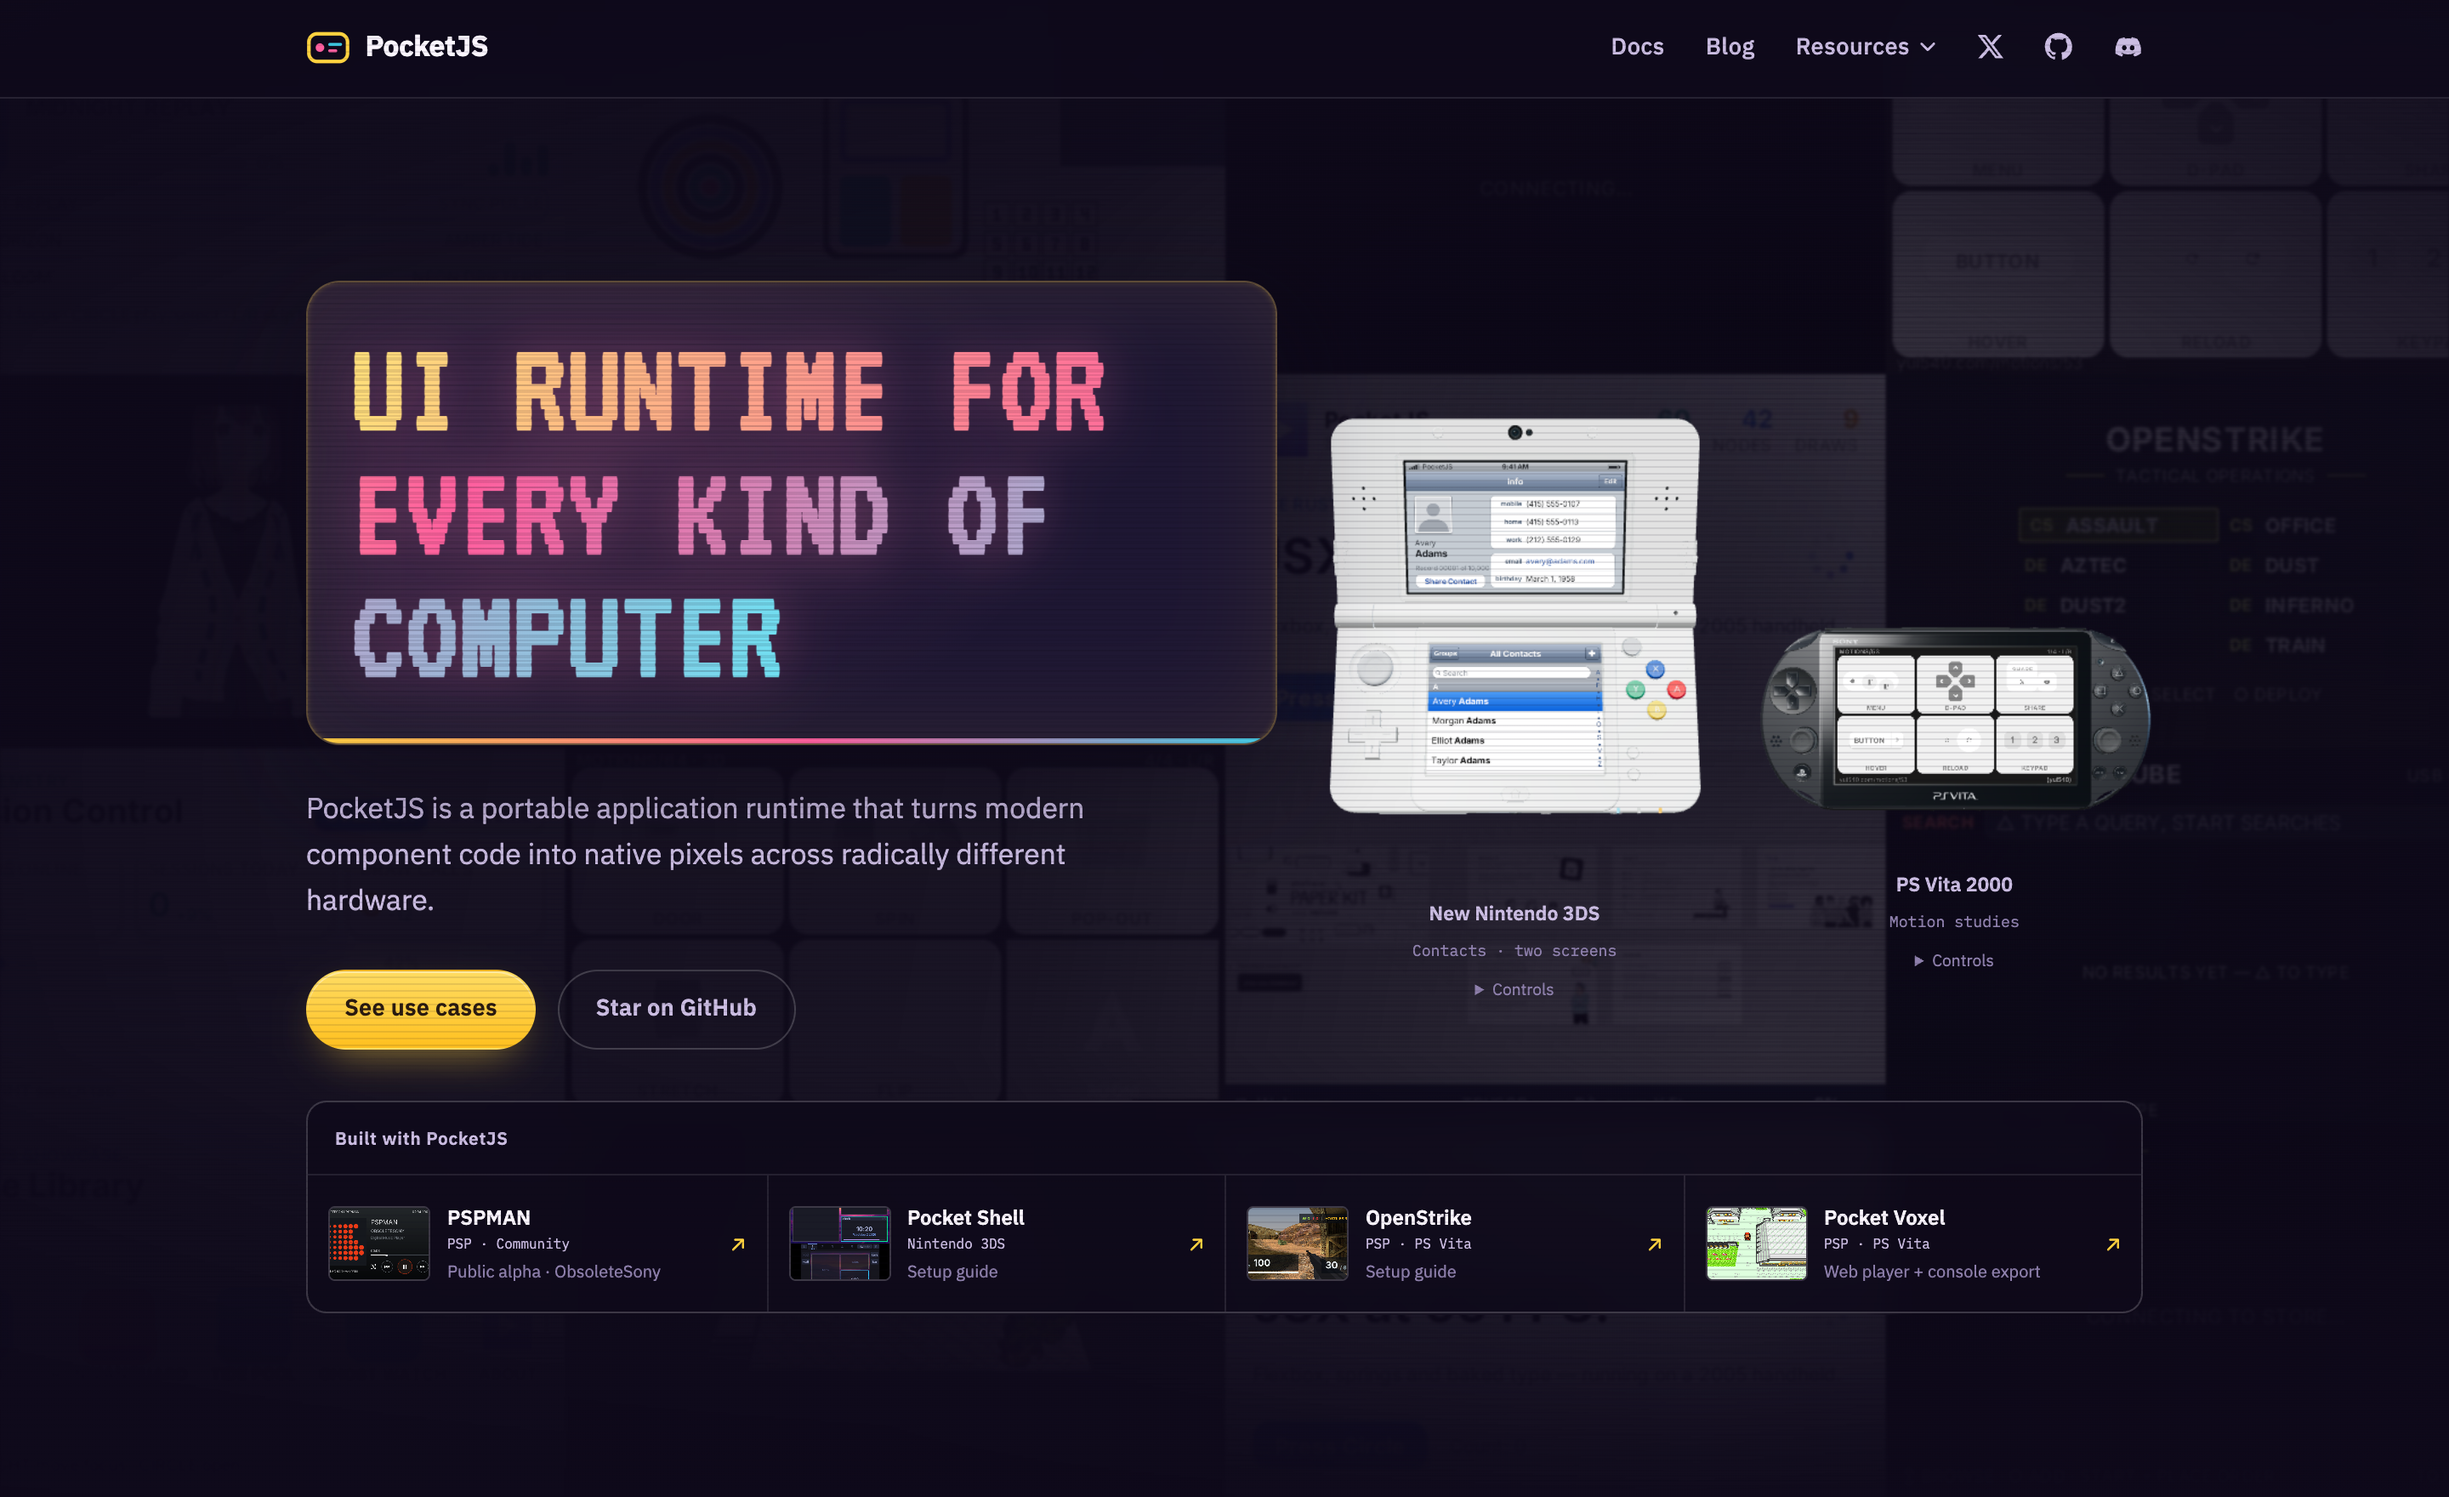
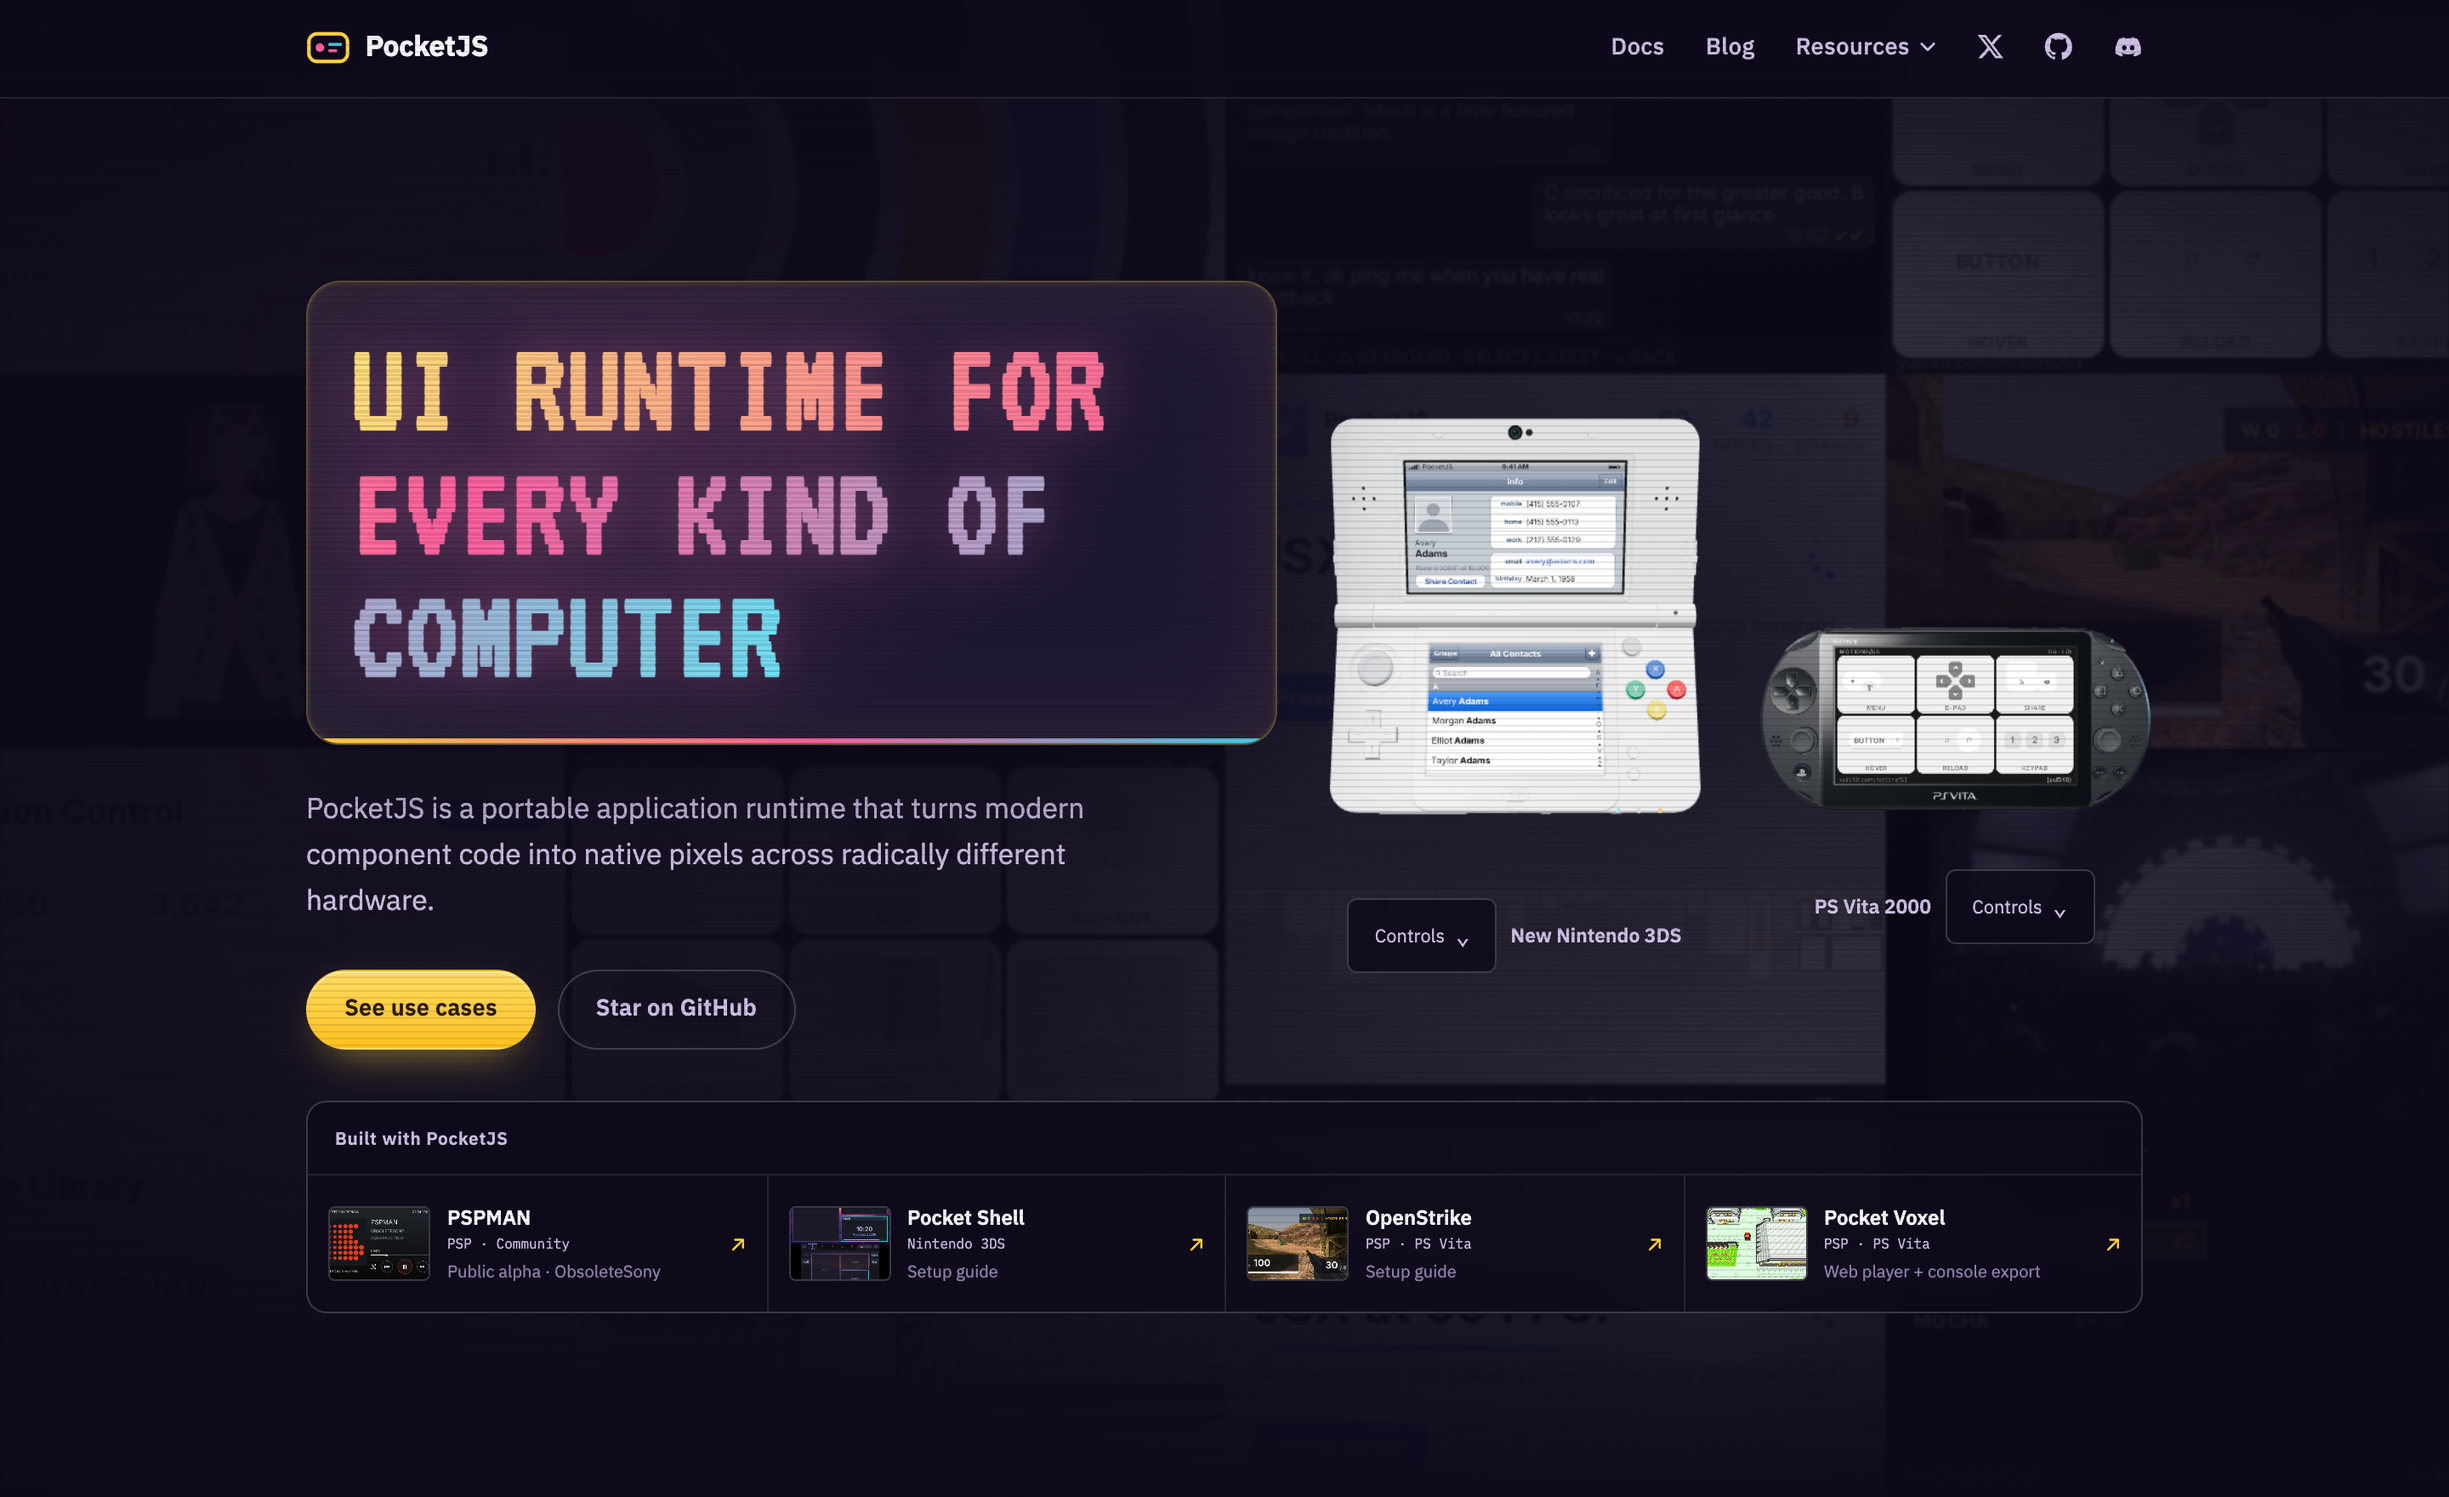
fix(site): make hero controls reachable and remove demo subtitles

diff --git a/site/assets/landing.css b/site/assets/landing.css
@@ -475,17 +475,25 @@
 .hero-handhelds::before{content:"";position:absolute;inset:-2rem;z-index:-1;background:radial-gradient(ellipse,rgba(var(--shade-rgb),.5),transparent 72%);pointer-events:none}
 .hero-handhelds .handheld-stage{position:absolute;margin:0;padding:0;border:0;background:transparent;pointer-events:none}
 .hero-handhelds .pg-stage__canvas{pointer-events:auto}
-.hero-handhelds .handheld-stage:first-child{width:66%;height:270px;left:-2%;top:-8px;z-index:1}
-.hero-handhelds .handheld-stage:last-child{width:78%;height:200px;right:-4%;bottom:0;z-index:2}
+/* The Vita's transparent canvas must not intercept the 3DS menu trigger. */
+.hero-handhelds .handheld-stage:first-child{width:66%;height:270px;left:-2%;top:-8px;z-index:2}
+.hero-handhelds .handheld-stage:last-child{width:78%;height:200px;right:-4%;bottom:0;z-index:1}
 .hero-handhelds .handheld-stage .pg-stage__viewport{height:calc(100% - 40px);overflow:visible}
-.hero-handhelds figcaption{position:absolute;left:0;right:0;bottom:0;text-align:center;line-height:1.45;pointer-events:none}
-.hero-handhelds .handheld-stage h3{font:600 .72rem/1.5 var(--sans);margin:0;color:var(--ink-2)}
-.hero-handhelds figcaption>span{font:.57rem/1.5 var(--mono);color:var(--muted)}
+.hero-handhelds figcaption{position:absolute;left:0;right:0;bottom:-4px;display:flex;align-items:center;justify-content:center;gap:.5rem;min-height:44px;text-align:center;pointer-events:none}
+.hero-handhelds .handheld-stage h3{font:600 .72rem/1.5 var(--sans);margin:0;color:var(--ink-2);min-width:0}
 .hero-handhelds .stage-hint{display:none}
-.hero-device-tools{position:absolute;left:50%;bottom:-1.45rem;transform:translateX(-50%);pointer-events:auto;font:.6rem/1.6 var(--sans);color:var(--muted)}
-.hero-device-tools summary{cursor:pointer;padding:2px 6px}
-.hero-device-tools summary:hover,.hero-device-tools summary:focus-visible{color:var(--ink);outline-color:var(--accent)}
-.hero-handhelds .handheld-controls{position:absolute;z-index:4;left:50%;bottom:1.65rem;transform:translateX(-50%);width:max-content;max-width:310px;padding:.45rem .55rem;margin:0;background:rgba(var(--shade-rgb),.98);border:1px solid var(--line);border-radius:8px}
+.hero-device-tools{pointer-events:auto;flex:none;font:.68rem/1.5 var(--sans);color:var(--ink-2)}
+/* The left side of the 3DS caption leaves the Vita shoulder accessible. */
+.hero-handhelds .handheld-stage:first-child .hero-device-tools{order:-1}
+.hero-device-tools summary{cursor:pointer;display:flex;align-items:center;justify-content:center;gap:.4rem;min-height:44px;min-width:88px;padding:0 .65rem;list-style:none;border:1px solid var(--line-2);border-radius:6px;background:rgba(var(--shade-rgb),.85)}
+.hero-device-tools summary::-webkit-details-marker{display:none}
+.hero-device-tools summary::after{content:"⌄";font-size:.85rem}
+.hero-device-tools[open] summary::after{content:"⌃"}
+.hero-device-tools summary:hover,.hero-device-tools summary:focus-visible{color:var(--ink);border-color:var(--accent);outline-color:var(--accent)}
+.hero-handhelds .handheld-controls{position:absolute;z-index:4;left:0;bottom:calc(100% + .4rem);width:max-content;max-width:310px;padding:.45rem .55rem;margin:0;background:rgba(var(--shade-rgb),.98);border:1px solid var(--line);border-radius:8px}
+.hero-handhelds .handheld-stage:last-child .handheld-controls{left:auto;right:0}
+.hero-handhelds .handheld-controls button{min-height:44px;min-width:44px}
+.hero-handhelds .handheld-controls input{height:44px}
 .hero-handhelds .handheld-stage:has(.hero-device-tools[open]){z-index:3}
 .hero-handhelds .pg-stage__status{font-size:.65rem;text-align:center;max-width:100%}
 [data-hero-layout="duet"] .hero-handhelds .handheld-stage:first-child{width:54%;height:360px;left:-2%;top:32px}
@@ -509,7 +517,6 @@
   .hero-handhelds{height:365px;width:min(100%,450px);justify-self:center;margin-top:1.5rem}
   .hero-handhelds .handheld-stage:first-child{width:61%;height:220px;left:0;top:0}
   .hero-handhelds .handheld-stage:last-child{width:69%;height:185px;right:-1%;bottom:0}
-  [data-hero-layout="cascade"] .hero-handhelds .handheld-stage:first-child figcaption{text-align:left;padding-left:10%}
   [data-hero-layout="duet"] .hero-handhelds{height:310px}
   [data-hero-layout="duet"] .hero-handhelds .handheld-stage:first-child{width:53%;height:270px;left:0;top:8px}
   [data-hero-layout="duet"] .hero-handhelds .handheld-stage:last-child{width:54%;height:173px;right:-2%;bottom:25px}

diff --git a/site/home.html b/site/home.html
@@ -55,30 +55,28 @@
     </div>
     <div class="handheld-grid hero-handhelds" aria-label="Try PocketJS on New Nintendo 3DS and PS Vita">
       <figure class="pg-stage motion-stage handheld-stage" data-pocket-stage data-handheld="new-nintendo-3ds">
-        <figcaption><h3>New Nintendo 3DS</h3><span>Contacts · two screens</span></figcaption>
+        <figcaption><h3>New Nintendo 3DS</h3><details class="hero-device-tools"><summary aria-label="New Nintendo 3DS controls">Controls</summary><div class="handheld-controls">
+          <button type="button" data-device-view="front">Front</button><button type="button" data-device-view="rear">Back</button><button type="button" data-device-view="detail">Angle</button>
+          <button type="button" data-lid-toggle aria-expanded="true">Close lid</button>
+          <label>Hinge <input type="range" min="0" max="175" value="155" data-lid-angle aria-label="Lid opening angle in degrees"></label>
+        </div></details></figcaption>
         <div class="pg-stage__viewport" data-stage-viewport role="group" aria-label="Interactive white New Nintendo 3DS standard model with dual-screen Contacts demo">
           <canvas class="pg-stage__canvas" data-stage-canvas aria-hidden="true"></canvas>
           <canvas class="pg-stage__screen" data-stage-screen width="400" height="240" aria-label="Contact details"></canvas>
           <canvas class="pg-stage__screen" data-stage-auxiliary width="320" height="240" aria-label="Contacts list"></canvas>
           <div class="pg-stage__status" data-stage-status role="status">Loading New Nintendo 3DS</div>
         </div>
-        <details class="hero-device-tools"><summary>Controls</summary><div class="handheld-controls">
-          <button type="button" data-device-view="front">Front</button><button type="button" data-device-view="rear">Back</button><button type="button" data-device-view="detail">Angle</button>
-          <button type="button" data-lid-toggle aria-expanded="true">Close lid</button>
-          <label>Hinge <input type="range" min="0" max="175" value="155" data-lid-angle aria-label="Lid opening angle in degrees"></label>
-        </div></details>
         <p class="stage-hint">Drag the shell to rotate. Drag the lower screen to scroll, or use the arrow keys.</p>
       </figure>
       <figure class="pg-stage motion-stage handheld-stage" data-pocket-stage data-handheld="ps-vita-2000">
-        <figcaption><h3>PS Vita 2000</h3><span>Motion studies</span></figcaption>
+        <figcaption><h3>PS Vita 2000</h3><details class="hero-device-tools"><summary aria-label="PS Vita 2000 controls">Controls</summary><div class="handheld-controls">
+          <button type="button" data-device-view="front">Front</button><button type="button" data-device-view="rear">Back</button><button type="button" data-device-view="detail">Angle</button>
+        </div></details></figcaption>
         <div class="pg-stage__viewport" data-stage-viewport role="group" aria-label="Interactive black PlayStation Vita PCH-2000 running PocketJS motion studies">
           <canvas class="pg-stage__canvas" data-stage-canvas aria-hidden="true"></canvas>
           <canvas class="pg-stage__screen" data-stage-screen width="960" height="544" aria-label="PocketJS motion studies"></canvas>
           <div class="pg-stage__status" data-stage-status role="status">Loading PlayStation Vita 2000</div>
         </div>
-        <details class="hero-device-tools"><summary>Controls</summary><div class="handheld-controls">
-          <button type="button" data-device-view="front">Front</button><button type="button" data-device-view="rear">Back</button><button type="button" data-device-view="detail">Angle</button>
-        </div></details>
         <p class="stage-hint">Drag to inspect the shell, rear touch pad, cameras and ports.</p>
       </figure>
     </div>

diff --git a/site/verify-hero-layouts.ts b/site/verify-hero-layouts.ts
@@ -15,12 +15,25 @@ const probe = `(async () => {
   const order = [...document.querySelectorAll('.hero .pe-entry')].map(link=>link.dataset.openApp);
   if (order.join(',')!=='pspman,pocket-shell,openstrike,pocket-voxel') throw Error('Unexpected hero case order');
   if (document.querySelectorAll('#motion [data-pocket-stage]').length!==1 || !document.querySelector('#motion [data-motion-stage]')) throw Error('Keep the original PSP in Motion');
+  function reachable(element) {
+    const r=element.getBoundingClientRect();
+    if (r.height<44 || r.width<44) throw Error('Control target is too small');
+    // Direct .click() bypasses overlapping canvases; check actual hit targets.
+    for (const x of [.15,.5,.85]) for (const y of [.15,.5,.85]) {
+      const hit=document.elementFromPoint(r.left+r.width*x,r.top+r.height*y);
+      if (hit!==element && !element.contains(hit)) throw Error('Control target is covered: '+element.textContent);
+    }
+  }
   for (const root of roots) {
     const canvas = root.querySelector('[data-stage-canvas]'), rect=canvas.getBoundingClientRect();
     if (rect.left<0 || rect.right>document.documentElement.clientWidth+1) throw Error('Device viewport extends outside page');
+    if (root.querySelector('figcaption>span')) throw Error('Remove the demo subtitle below the model');
     const details=root.querySelector('.hero-device-tools');
+    reachable(details.querySelector('summary'));
     details.querySelector('summary').click();
     if (!details.open || getComputedStyle(details.querySelector('.handheld-controls')).visibility==='hidden') throw Error('Device controls did not open');
+    for (const button of details.querySelectorAll('button')) reachable(button);
+    reachable(details.querySelector('summary'));
     details.querySelector('summary').click();
   }
   document.querySelector('.hero .pe-entry').click();
